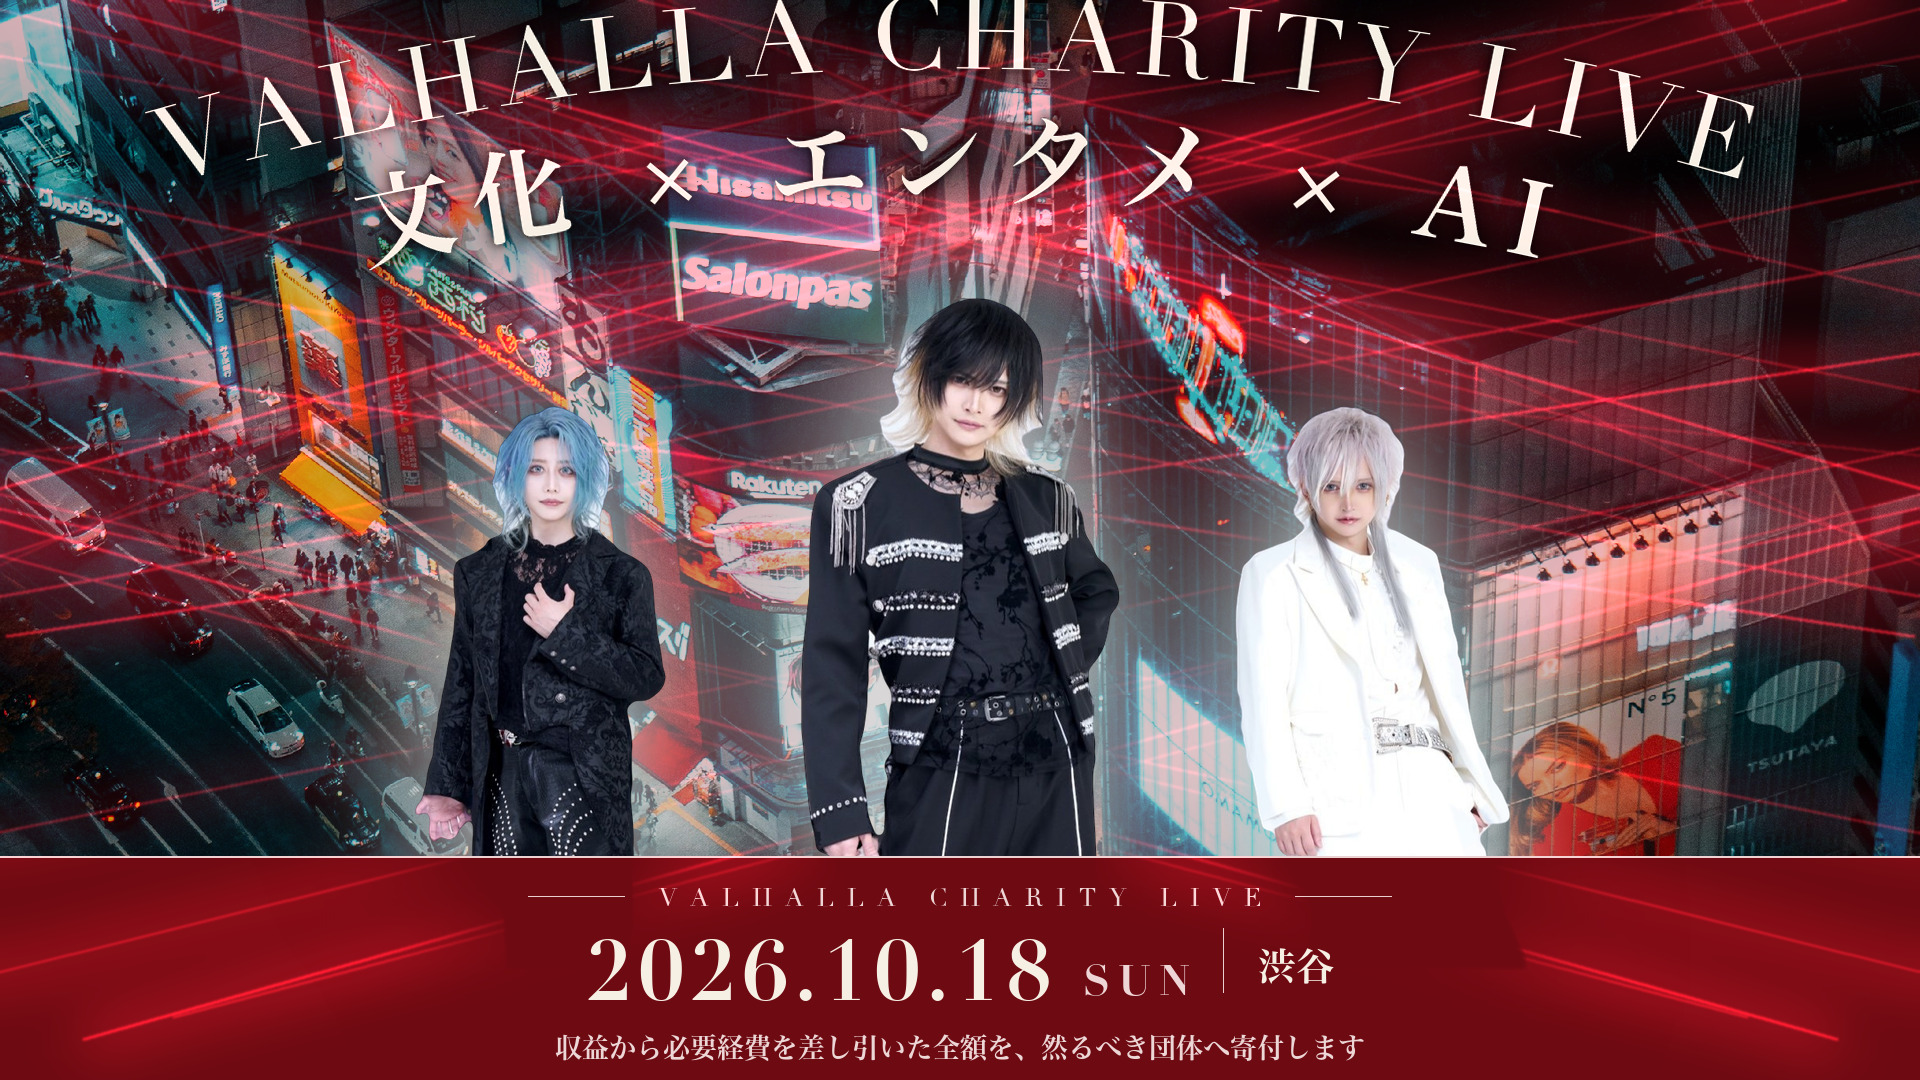
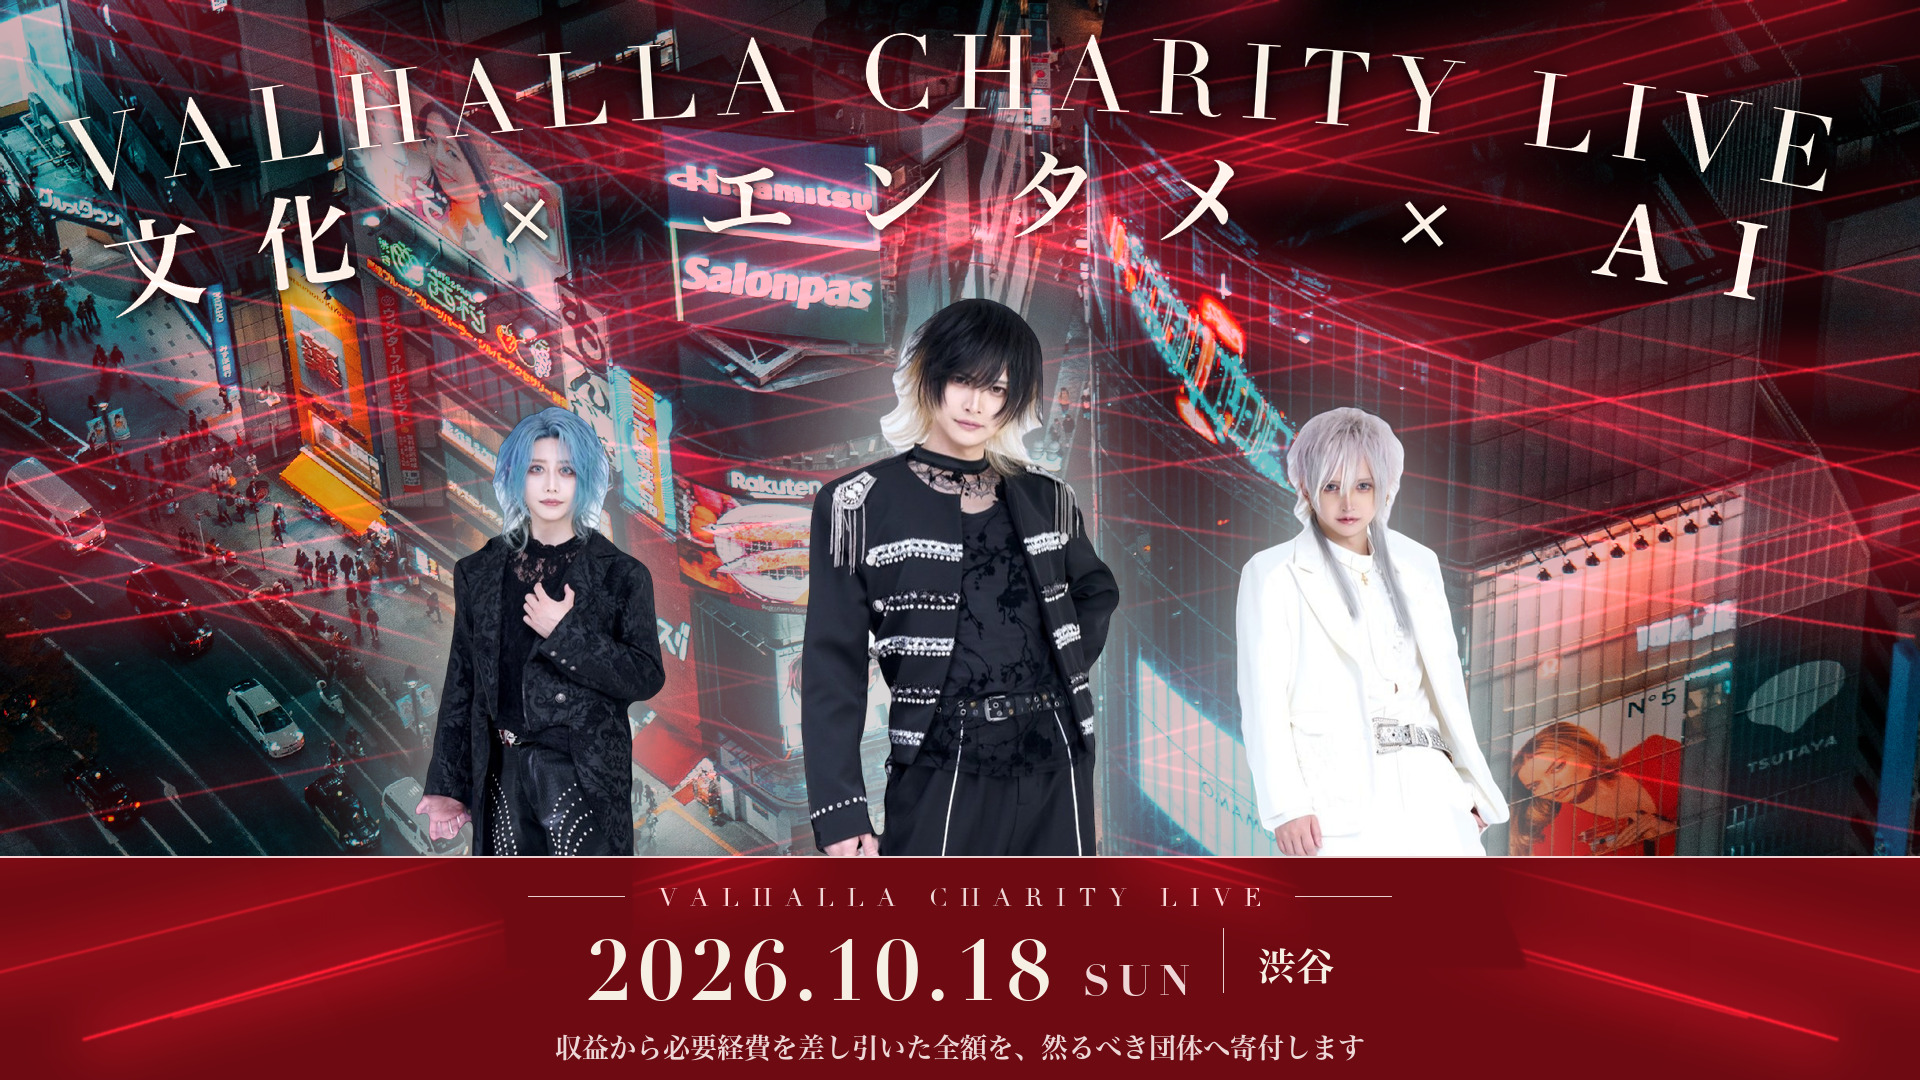
charity: flatten the arcs so the title stops clipping
The title's peak sat above the frame. Widening the radius to 4600 makes
both arcs shallow enough to fit, and the width they lose in height they
take back in the side margins — 1773px and 1721px across a 1920 frame.
Both radii match, so the gap between the lines holds to the ends.

Changed region(s): [[0.0312, 0.0, 0.9688, 0.3056], [0.8438, 0.1833, 0.9375, 0.275]]

diff --git a/assets/charity/create_flyer_wide.py b/assets/charity/create_flyer_wide.py
@@ -284,15 +284,24 @@ def arc_text(base: Image.Image, text: str, font: ImageFont.FreeTypeFont,
 def add_type(base: Image.Image) -> None:
     d = ImageDraw.Draw(base)
 
-    # 主役：イベント名。頭の上に大きなアーチで置く。
-    arc_text(base, "VALHALLA CHARITY LIVE", face(DIDOT, 104), CREAM + (255,),
-             W // 2, 2880, 2842, tracking=10)
+    # 2行とも、弧を浅くして横の余白まで使い切る。半径を大きくすると
+    # 弧は平たくなり、同じ文字量でも横に伸びて上への張り出しが減る。
+    # 半径を揃えてあるので、2行の間隔は端まで一定に保たれる。
+    #
+    #   R = 4600 / 字間で幅を作る / 頂点 y は下の実測値から決めた
+    #     Didot 104 …… 弧の点から見て 上 45px・下 33px にインクが乗る
+    #     明朝  100 …… 同じく 上 63px・下 32px
+    #
+    ARC_R = 4600
 
-    # 補足：3語のスローガン。主役より一回り小さく、内側のアーチに。
-    # 3語はイベント名とほぼ同じ大きさにする。そのぶんイベント名の弧を
-    # 上へ逃がして場所をつくった。頭頂 y≈298 との間はまだ空いている。
+    # 主役：イベント名。頂点 78 → インクの上端 33 で、天地とも切れない。
+    arc_text(base, "VALHALLA CHARITY LIVE", face(DIDOT, 104), CREAM + (255,),
+             W // 2, 78 + ARC_R, ARC_R, tracking=18)
+
+    # 3語。イベント名と同じ大きさのまま、字間だけ開けて横幅を稼ぐ。
+    # 頂点 209 → インク下端 241。いちばん高い頭（y≈298）まで 57px 空く。
     arc_text(base, "文化 × エンタメ × AI", face(MINCHO, 100), CREAM + (255,),
-             W // 2, 2880, 2706, tracking=16)
+             W // 2, 209 + ARC_R, ARC_R, tracking=52)
 
 
 def add_band(base: Image.Image) -> None:
